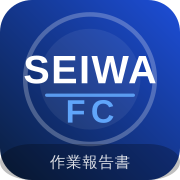
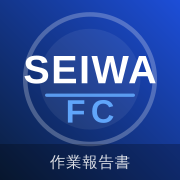
アイコン修正：透明ピクセル除去・manifest/iOS対応改善
- 透明なし（flatten）でPNG生成→iOS/Android確実に表示
- apple-touch-iconにsizes="180x180"追加
- manifest.jsonでanyとmaskableを分離して登録

https://claude.ai/code/session_015YUT1xWoV2HNqE54Xd9PwA

diff --git a/app/layout.tsx b/app/layout.tsx
@@ -31,7 +31,7 @@ export default function RootLayout({
         <meta name="apple-mobile-web-app-capable" content="yes" />
         <meta name="apple-mobile-web-app-status-bar-style" content="black-translucent" />
         <meta name="apple-mobile-web-app-title" content="作業報告書" />
-        <link rel="apple-touch-icon" href="/apple-touch-icon.png" />
+        <link rel="apple-touch-icon" sizes="180x180" href="/apple-touch-icon.png" />
         {/* ビューポート */}
         <meta name="viewport" content="width=device-width, initial-scale=1, maximum-scale=1, user-scalable=no" />
       </head>
